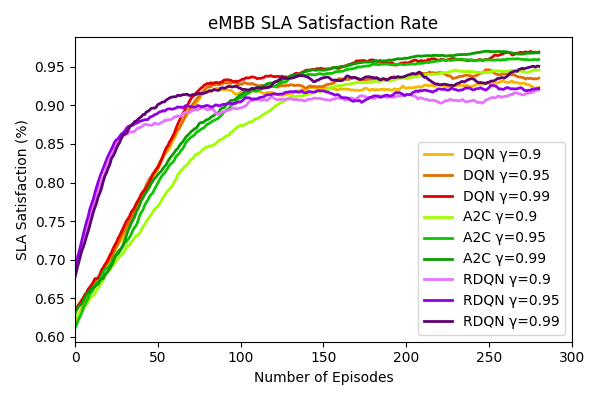
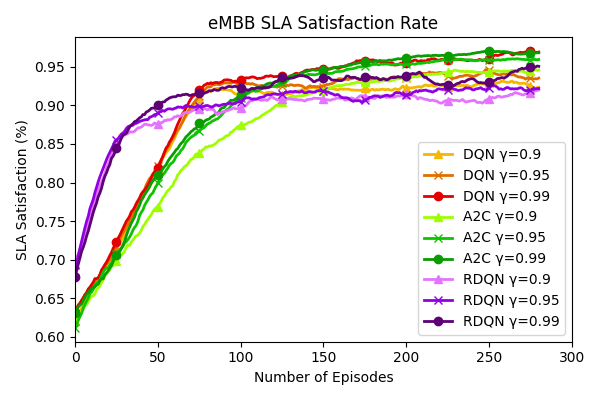
Adding plot markers

diff --git a/Compare.py b/Compare.py
@@ -206,6 +206,9 @@ RDQN_GAMMA_LABELS = {0.9: "RDQN γ=0.9", 0.95: "RDQN γ=0.95", 0.99: "RDQN γ=0.
 DQN_GAMMA_COLORS = {0.9: "#f6b700", 0.95: "#e36e00", 0.99: "#e30000"}
 A2C_GAMMA_COLORS = {0.9: "#9eff00", 0.95: "#0cc400", 0.99: "#0a9c00"}
 RDQN_GAMMA_COLORS = {0.9: "#e573ff", 0.95: "#9100e4", 0.99: "#5f0075"}
+DQN_GAMMA_MARKERS = {0.9: "^", 0.95: "x", 0.99: "o"}
+A2C_GAMMA_MARKERS = {0.9: "^", 0.95: "x", 0.99: "o"}
+RDQN_GAMMA_MARKERS = {0.9: "^", 0.95: "x", 0.99: "o"}
 
 dqn_gamma_results = {}
 a2c_gamma_results = {}
@@ -318,7 +321,7 @@ def plot_results():
         for gamma in DQN_GAMMAS:
             if gamma in dqn_gamma_results:
                 mean, std = adjust_std_and_smooth(dqn_gamma_results[gamma]["urllc_blocks_mean"], dqn_gamma_results[gamma]["urllc_blocks_std"])
-                plt.plot(mean, label=DQN_GAMMA_LABELS[gamma], color=DQN_GAMMA_COLORS[gamma], linewidth=2)
+                plt.plot(mean, label=DQN_GAMMA_LABELS[gamma], color=DQN_GAMMA_COLORS[gamma], linewidth=2, marker=DQN_GAMMA_MARKERS[gamma], markevery=25)
                 if SHOW_STD_DEV:
                     plt.fill_between(range(len(mean)), mean - std, mean + std, color=DQN_GAMMA_COLORS[gamma], alpha=0.1)
     # Overlay A2C gamma curves
@@ -326,7 +329,7 @@ def plot_results():
         for gamma in A2C_GAMMAS:
             if gamma in a2c_gamma_results:
                 mean, std = adjust_std_and_smooth(a2c_gamma_results[gamma]["urllc_blocks_mean"], a2c_gamma_results[gamma]["urllc_blocks_std"])
-                plt.plot(mean, label=A2C_GAMMA_LABELS[gamma], color=A2C_GAMMA_COLORS[gamma], linewidth=2)
+                plt.plot(mean, label=A2C_GAMMA_LABELS[gamma], color=A2C_GAMMA_COLORS[gamma], linewidth=2, marker=A2C_GAMMA_MARKERS[gamma], markevery=25)
                 if SHOW_STD_DEV:
                     plt.fill_between(range(len(mean)), mean - std, mean + std, color=A2C_GAMMA_COLORS[gamma], alpha=0.1)
     # Overlay RDQN gamma curves
@@ -334,7 +337,7 @@ def plot_results():
         for gamma in RDQN_GAMMAS:
             if gamma in rdqn_gamma_results:
                 mean, std = adjust_std_and_smooth(rdqn_gamma_results[gamma]["urllc_blocks_mean"], rdqn_gamma_results[gamma]["urllc_blocks_std"])
-                plt.plot(mean, label=RDQN_GAMMA_LABELS[gamma], color=RDQN_GAMMA_COLORS[gamma], linewidth=2)
+                plt.plot(mean, label=RDQN_GAMMA_LABELS[gamma], color=RDQN_GAMMA_COLORS[gamma], linewidth=2, marker=RDQN_GAMMA_MARKERS[gamma], markevery=25)
                 if SHOW_STD_DEV:
                     plt.fill_between(range(len(mean)), mean - std, mean + std, color=RDQN_GAMMA_COLORS[gamma], alpha=0.1)
     if PLOT_DQN:
@@ -373,21 +376,21 @@ def plot_results():
         for gamma in DQN_GAMMAS:
             if gamma in dqn_gamma_results:
                 mean, std = adjust_std_and_smooth(dqn_gamma_results[gamma]["urllc_sla_mean"], dqn_gamma_results[gamma]["urllc_sla_std"])
-                plt.plot(mean, label=DQN_GAMMA_LABELS[gamma], color=DQN_GAMMA_COLORS[gamma], linewidth=2)
+                plt.plot(mean, label=DQN_GAMMA_LABELS[gamma], color=DQN_GAMMA_COLORS[gamma], linewidth=2, marker=DQN_GAMMA_MARKERS[gamma], markevery=25)
                 if SHOW_STD_DEV:
                     plt.fill_between(range(len(mean)), mean - std, mean + std, color=DQN_GAMMA_COLORS[gamma], alpha=0.1)
     if PLOT_A2C_GAMMAS:
         for gamma in A2C_GAMMAS:
             if gamma in a2c_gamma_results:
                 mean, std = adjust_std_and_smooth(a2c_gamma_results[gamma]["urllc_sla_mean"], a2c_gamma_results[gamma]["urllc_sla_std"])
-                plt.plot(mean, label=A2C_GAMMA_LABELS[gamma], color=A2C_GAMMA_COLORS[gamma], linewidth=2)
+                plt.plot(mean, label=A2C_GAMMA_LABELS[gamma], color=A2C_GAMMA_COLORS[gamma], linewidth=2, marker=A2C_GAMMA_MARKERS[gamma], markevery=25)
                 if SHOW_STD_DEV:
                     plt.fill_between(range(len(mean)), mean - std, mean + std, color=A2C_GAMMA_COLORS[gamma], alpha=0.1)
     if PLOT_RDQN_GAMMAS:
         for gamma in RDQN_GAMMAS:
             if gamma in rdqn_gamma_results:
                 mean, std = adjust_std_and_smooth(rdqn_gamma_results[gamma]["urllc_sla_mean"], rdqn_gamma_results[gamma]["urllc_sla_std"])
-                plt.plot(mean, label=RDQN_GAMMA_LABELS[gamma], color=RDQN_GAMMA_COLORS[gamma], linewidth=2)
+                plt.plot(mean, label=RDQN_GAMMA_LABELS[gamma], color=RDQN_GAMMA_COLORS[gamma], linewidth=2, marker=RDQN_GAMMA_MARKERS[gamma], markevery=25)
                 if SHOW_STD_DEV:
                     plt.fill_between(range(len(mean)), mean - std, mean + std, color=RDQN_GAMMA_COLORS[gamma], alpha=0.1)
     if PLOT_DQN:
@@ -426,21 +429,21 @@ def plot_results():
         for gamma in DQN_GAMMAS:
             if gamma in dqn_gamma_results:
                 mean, std = adjust_std_and_smooth(dqn_gamma_results[gamma]["embb_blocks_mean"], dqn_gamma_results[gamma]["embb_blocks_std"])
-                plt.plot(mean, label=DQN_GAMMA_LABELS[gamma], color=DQN_GAMMA_COLORS[gamma], linewidth=2)
+                plt.plot(mean, label=DQN_GAMMA_LABELS[gamma], color=DQN_GAMMA_COLORS[gamma], linewidth=2, marker=DQN_GAMMA_MARKERS[gamma], markevery=25)
                 if SHOW_STD_DEV:
                     plt.fill_between(range(len(mean)), mean - std, mean + std, color=DQN_GAMMA_COLORS[gamma], alpha=0.1)
     if PLOT_A2C_GAMMAS:
         for gamma in A2C_GAMMAS:
             if gamma in a2c_gamma_results:
                 mean, std = adjust_std_and_smooth(a2c_gamma_results[gamma]["embb_blocks_mean"], a2c_gamma_results[gamma]["embb_blocks_std"])
-                plt.plot(mean, label=A2C_GAMMA_LABELS[gamma], color=A2C_GAMMA_COLORS[gamma], linewidth=2)
+                plt.plot(mean, label=A2C_GAMMA_LABELS[gamma], color=A2C_GAMMA_COLORS[gamma], linewidth=2, marker=A2C_GAMMA_MARKERS[gamma], markevery=25)
                 if SHOW_STD_DEV:
                     plt.fill_between(range(len(mean)), mean - std, mean + std, color=A2C_GAMMA_COLORS[gamma], alpha=0.1)
     if PLOT_RDQN_GAMMAS:
         for gamma in RDQN_GAMMAS:
             if gamma in rdqn_gamma_results:
                 mean, std = adjust_std_and_smooth(rdqn_gamma_results[gamma]["embb_blocks_mean"], rdqn_gamma_results[gamma]["embb_blocks_std"])
-                plt.plot(mean, label=RDQN_GAMMA_LABELS[gamma], color=RDQN_GAMMA_COLORS[gamma], linewidth=2)
+                plt.plot(mean, label=RDQN_GAMMA_LABELS[gamma], color=RDQN_GAMMA_COLORS[gamma], linewidth=2, marker=RDQN_GAMMA_MARKERS[gamma], markevery=25)
                 if SHOW_STD_DEV:
                     plt.fill_between(range(len(mean)), mean - std, mean + std, color=RDQN_GAMMA_COLORS[gamma], alpha=0.1)
     if PLOT_DQN:
@@ -479,21 +482,21 @@ def plot_results():
         for gamma in DQN_GAMMAS:
             if gamma in dqn_gamma_results:
                 mean, std = adjust_std_and_smooth(dqn_gamma_results[gamma]["embb_sla_mean"], dqn_gamma_results[gamma]["embb_sla_std"])
-                plt.plot(mean, label=DQN_GAMMA_LABELS[gamma], color=DQN_GAMMA_COLORS[gamma], linewidth=2)
+                plt.plot(mean, label=DQN_GAMMA_LABELS[gamma], color=DQN_GAMMA_COLORS[gamma], linewidth=2, marker=DQN_GAMMA_MARKERS[gamma], markevery=25)
                 if SHOW_STD_DEV:
                     plt.fill_between(range(len(mean)), mean - std, mean + std, color=DQN_GAMMA_COLORS[gamma], alpha=0.1)
     if PLOT_A2C_GAMMAS:
         for gamma in A2C_GAMMAS:
             if gamma in a2c_gamma_results:
                 mean, std = adjust_std_and_smooth(a2c_gamma_results[gamma]["embb_sla_mean"], a2c_gamma_results[gamma]["embb_sla_std"])
-                plt.plot(mean, label=A2C_GAMMA_LABELS[gamma], color=A2C_GAMMA_COLORS[gamma], linewidth=2)
+                plt.plot(mean, label=A2C_GAMMA_LABELS[gamma], color=A2C_GAMMA_COLORS[gamma], linewidth=2, marker=A2C_GAMMA_MARKERS[gamma], markevery=25)
                 if SHOW_STD_DEV:
                     plt.fill_between(range(len(mean)), mean - std, mean + std, color=A2C_GAMMA_COLORS[gamma], alpha=0.1)
     if PLOT_RDQN_GAMMAS:
         for gamma in RDQN_GAMMAS:
             if gamma in rdqn_gamma_results:
                 mean, std = adjust_std_and_smooth(rdqn_gamma_results[gamma]["embb_sla_mean"], rdqn_gamma_results[gamma]["embb_sla_std"])
-                plt.plot(mean, label=RDQN_GAMMA_LABELS[gamma], color=RDQN_GAMMA_COLORS[gamma], linewidth=2)
+                plt.plot(mean, label=RDQN_GAMMA_LABELS[gamma], color=RDQN_GAMMA_COLORS[gamma], linewidth=2, marker=RDQN_GAMMA_MARKERS[gamma], markevery=25)
                 if SHOW_STD_DEV:
                     plt.fill_between(range(len(mean)), mean - std, mean + std, color=RDQN_GAMMA_COLORS[gamma], alpha=0.1)
     if PLOT_DQN:
